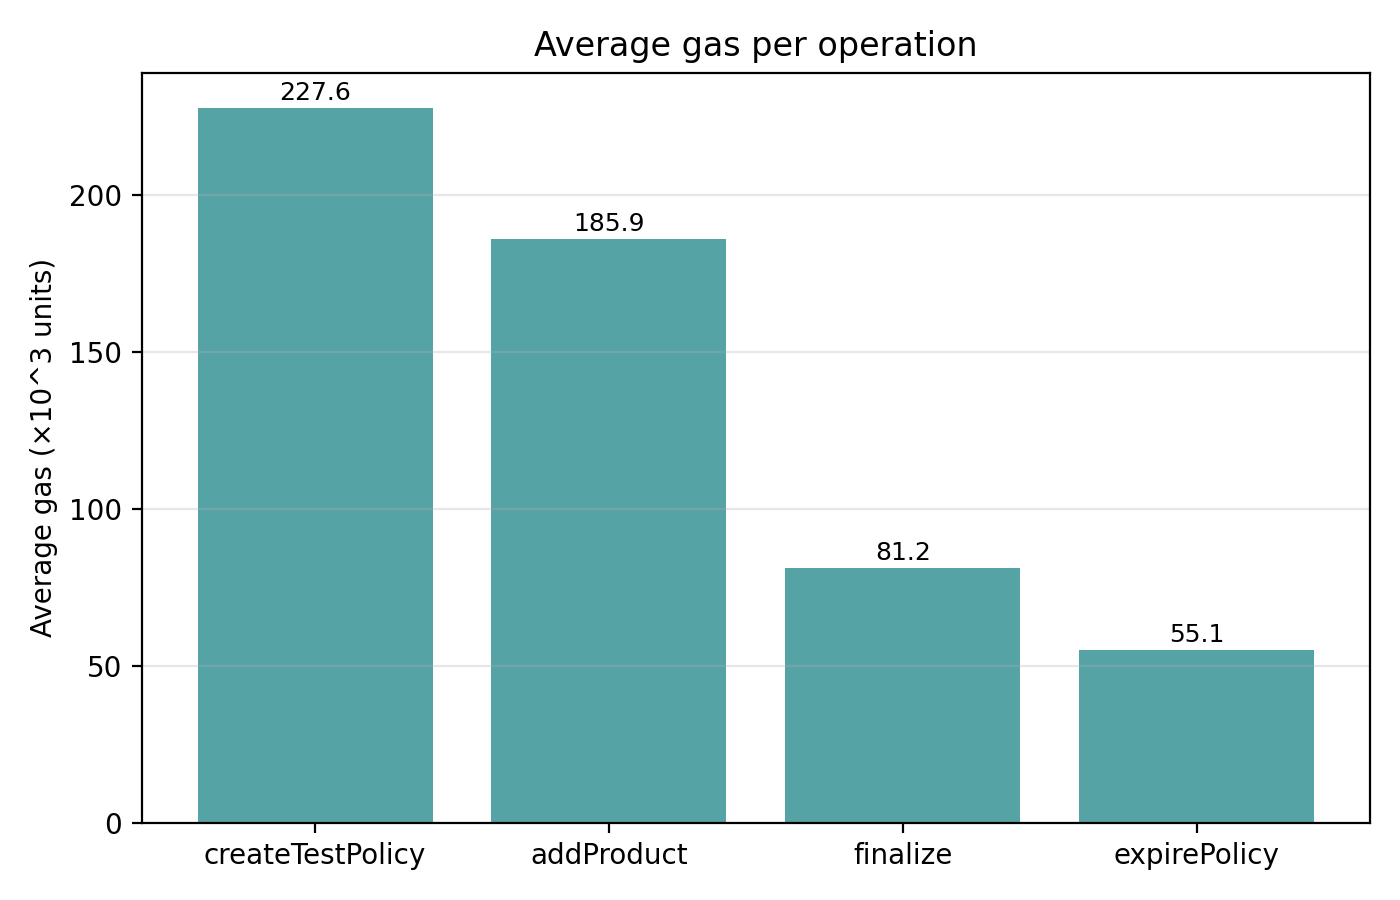
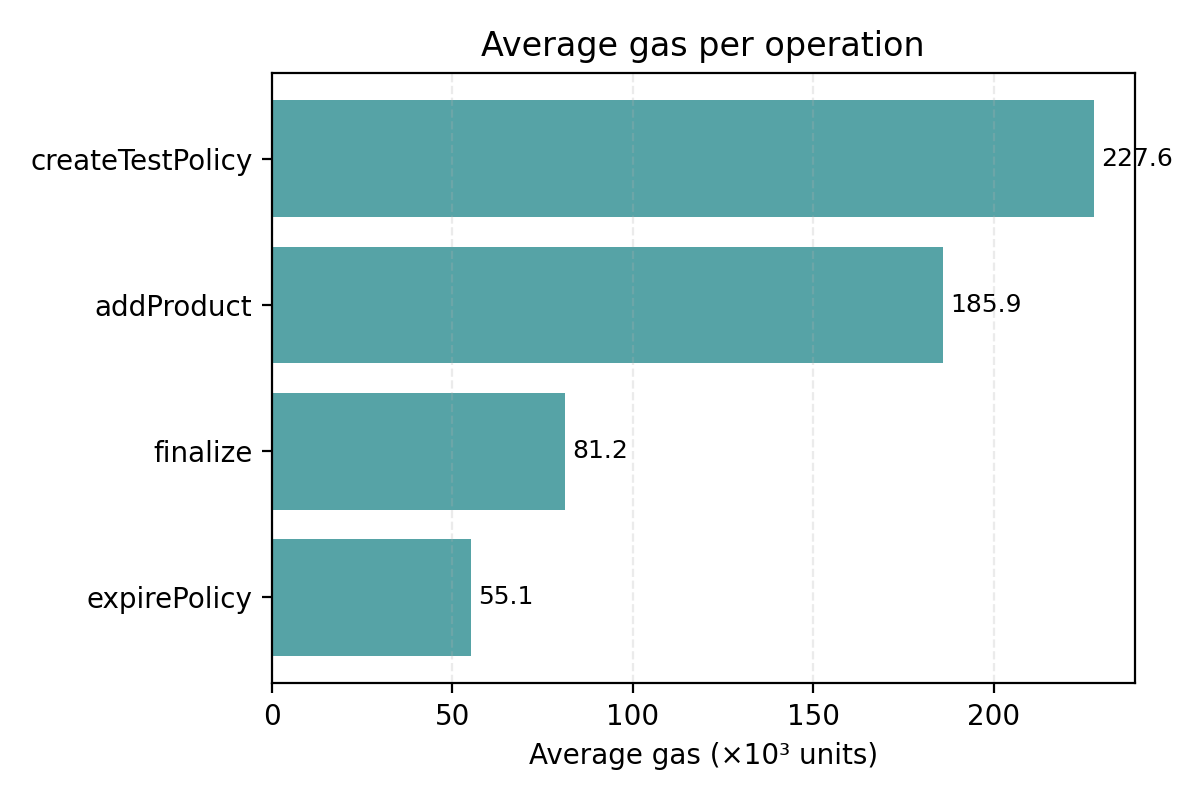
Polish performance charts for readability

diff --git a/scripts/plot_perf.py b/scripts/plot_perf.py
@@ -19,24 +19,33 @@ def avg_gas_bar(df):
     grouped = (
         df.groupby('operation')['gas_used']
         .mean()
-        .sort_values(ascending=False)
+        .sort_values()
     )
-    fig, ax = plt.subplots(figsize=(7, 4.5))
-    ax.bar(grouped.index, grouped / 1000, color='#56a3a6')
-    ax.set_ylabel('Average gas (×10^3 units)')
+    fig, ax = plt.subplots(figsize=(6, 4))
+    bars = ax.barh(grouped.index, grouped / 1000, color='#56a3a6')
+    ax.set_xlabel('Average gas (×10³ units)')
     ax.set_title('Average gas per operation')
-    ax.grid(axis='y', alpha=0.3)
-    for idx, val in enumerate(grouped / 1000):
-        ax.text(idx, val + 1, f"{val:.1f}", ha='center', va='bottom', fontsize=9)
+    ax.grid(axis='x', alpha=0.25, linestyle='--')
+    for bar, val in zip(bars, grouped / 1000):
+        ax.text(bar.get_width() + 2, bar.get_y() + bar.get_height() / 2, f"{val:.1f}", va='center', fontsize=9)
     fig.tight_layout()
     fig.savefig(OUTPUT_DIR / 'gas_bar.png', dpi=200)
 
 
 def gas_pie(df):
     grouped = df.groupby('operation')['gas_used'].sum().sort_values(ascending=False)
-    fig, ax = plt.subplots(figsize=(5, 5))
-    ax.pie(grouped, labels=grouped.index, autopct='%1.1f%%', startangle=140)
+    fig, ax = plt.subplots(figsize=(5.5, 5))
+    wedges, _, autotexts = ax.pie(
+        grouped,
+        labels=None,
+        autopct='%1.1f%%',
+        startangle=140,
+        pctdistance=0.75,
+        textprops={'fontsize': 9}
+    )
+    ax.legend(wedges, grouped.index, title='Operation', loc='center left', bbox_to_anchor=(1, 0.5))
     ax.set_title('Total gas distribution by operation')
+    fig.tight_layout()
     fig.savefig(OUTPUT_DIR / 'gas_pie.png', dpi=200)
 
 
